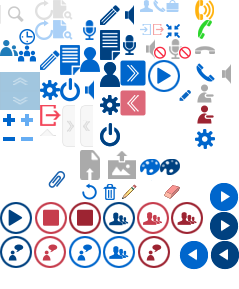
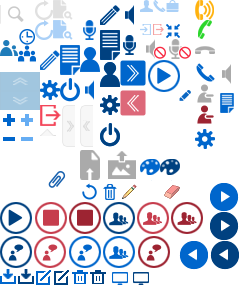
room.html页面加了文档列表

Changed region(s): [[0.0, 0.9343, 0.4393, 0.9965], [0.4686, 0.9343, 0.6444, 0.9965], [0.9079, 0.3114, 0.9958, 0.4048]]

diff --git a/room.html b/room.html
@@ -2,7 +2,7 @@
 <html>
 <head>
     <meta http-equiv="Content-Type" content="text/html; charset=utf-8"/>
-    <title>xxx会议室</title>
+    <title>会议文档</title>
     <link rel="stylesheet" href="css/global.css">
     <link rel="stylesheet" href="css/conference.css">
     <script type="text/javascript" src="js/jquery.js"></script>
@@ -199,108 +199,52 @@
                     <!--左侧的四个悬浮按钮begin-->
                     <div class="BarLeft">
                         <a href=""><i class="Icon Icon-write-m"></i></a>
-                        <a href=""><i class="Icon Icon-doc-m"></i></a>
-                        <a href="" class="current"><i class="Icon Icon-me-m"></i></a>
+                        <a href="" class="current"><i class="Icon Icon-doc-m"></i></a>
+                        <a href=""><i class="Icon Icon-me-m"></i></a>
                         <a href=""><i class="Icon Icon-set-m"></i></a>
                         <a href=""><i class="Icon Icon-broad-m"></i></a>
                     </div>
                     <!--左侧的四个悬浮按钮over-->
                     <div class="RightBarB-in">
                         <a href="javascript:;" class="Icon Icon-off"></a>
-                        <p class="TopTime aligncenter">
-                            <em>会议时长</em><br>
-                            <span class="font30">01:05:34</span>
-                        </p>
+                        <div class="Mtitle font16">
+                            <i class="Icon Icon-doc-m"></i> 会议文档
+                        </div>
                         <div class="mainIn">
-                            <ul class="UserList UserTab mart10 nomarl">
-                                <li class="clearfix">
-                                    <span class="UserImg block floatleft"><img src="images/1.jpg"></span>
-                                    <div class="UserBox">
-                                        <p>
-                                            <span class="UserName"><i class="Icon Icon-man"></i> 习近平</span>
-                                            <span class="Departmen"><i class="Icon Icon-box"></i> 技术支持部</span>
-                                            <span><i class="Icon Icon-phone"></i> 18622595158</span>
-                                        </p>
-                                        <div class="BtnItems">
-                                            <a href="javascript:;" class="marl5 nomarr"><i class="Icon Icon-v"></i> 未静音</a>
-                                            <a href="#" class="marl10 nomarr"><i class="Icon Icon-m"></i> 未静音</a>
-                                        </div>
-                                    </div>
-                                </li>
-                                <li class="clearfix">
-                                    <span class="UserImg block floatleft"><img src="images/1.jpg"></span>
-                                    <div class="UserBox">
-                                        <p>
-                                            <span class="UserName"><i class="Icon Icon-man"></i> 习近平</span>
-                                            <span class="Departmen"><i class="Icon Icon-box"></i> 技术支持部</span>
-                                            <span><i class="Icon Icon-phone"></i> 18622595158</span>
-                                        </p>
-                                        <div class="BtnItems">
-                                            <a href="javascript:;" class="no-Voice marl5 nomarr mart7"><i class="Icon no-voice"></i> 已静音</a>
-                                            <a href="#" class="no-Mic nomarl nomarr mart7"><i class="Icon no-mic"></i> 已静音</a>
-                                        </div>
-                                    </div>
-                                </li>
-                            </ul>
                             <div class="attachment-list">
                                 <div class="md-attachment mart10">
                                 <ul class="all-att clearfix">
                                     <li class="clearfix">
-                                        <span class="docimg floatleft"><img src="images/pdf.png"></span>
-                                        <div class="floatleft">
-                                            <p class="txt_hidden">
-                                                <span>数段名</span>
-                                            </p>
-                                            <p class="p-top10 clearfix">
-                                                <em>(20.5KB)</em>
-                                                <a target="_blank" href="" class="color-black">下载</a>
-                                                <a target="_blank" href="" class="color-black">预览</a>
-                                            </p>
+                                        <span class="docimg floatleft"><img src="images/fu_docx.gif"></span>
+                                        <span class="txt_hidden floatleft">新证据支持月球源于行星撞地球</span>
+                                        <span>
+                                            <em>10.69K</em>
+                                            <em>2014-06-08 17:41:05</em>
+                                        </span>
+                                        <div class="docBtn clearfix  floatright">
+                                            <a href="#" title="下载"><i class="Icon Icon-downl"></i></a>
+                                            <a href="#" title="重命名"><i class="Icon Icon-name"></i></a>
+                                            <a href="#" title="预览"><i class="Icon Icon-see"></i></a>
+                                            <a href="#" title="删除"><i class="Icon Icon-del2"></i></a>
                                         </div>
                                     </li>
                                     <li class="clearfix">
-                                        <span class="docimg floatleft"><img src="images/png.png"></span>
-                                        <div class="floatleft">
-                                            <p class="txt_hidden">
-                                                <span>数段名</span>
-                                            </p>
-                                            <p class="p-top10 clearfix">
-                                                <em>(20.5KB)</em>
-                                                <a target="_blank" href="" class="color-black">下载</a>
-                                                <a target="_blank" href="" class="color-black">预览</a>
-                                            </p>
-                                        </div>
-                                    </li>
-                                    <li class="clearfix">
-                                        <span class="docimg floatleft"><img src="images/txt.png"></span>
-                                        <div class="floatleft">
-                                            <p class="txt_hidden">
-                                                <span>数段名</span>
-                                            </p>
-                                            <p class="p-top10 clearfix">
-                                                <em>(20.5KB)</em>
-                                                <a target="_blank" href="" class="color-black">下载</a>
-                                                <a target="_blank" href="" class="color-black">预览</a>
-                                            </p>
-                                        </div>
-                                    </li>
-                                    <li class="clearfix">
-                                        <span class="docimg floatleft"><img src="images/zip.png"></span>
-                                        <div class="floatleft">
-                                            <p class="txt_hidden">
-                                                <span>数段名</span>
-                                            </p>
-                                            <p class="p-top10 clearfix">
-                                                <em>(20.5KB)</em>
-                                                <a target="_blank" href="" class="color-black">下载</a>
-                                                <a target="_blank" href="" class="color-black">预览</a>
-                                            </p>
+                                        <span class="docimg floatleft"><img src="images/fu_gif.gif"></span>
+                                        <span class="txt_hidden floatleft">新行星撞地球</span>
+                                        <span>
+                                            <em>10.69K</em>
+                                            <em>2014-06-08 17:41:05</em>
+                                        </span>
+                                        <div class="docBtn clearfix  floatright">
+                                            <a href="#" title="下载"><i class="Icon Icon-downl"></i></a>
+                                            <a href="#" title="重命名"><i class="Icon Icon-name"></i></a>
+                                            <a href="#" title="预览"><i class="Icon Icon-see"></i></a>
+                                            <a href="#" title="删除"><i class="Icon Icon-del2"></i></a>
                                         </div>
                                     </li>
                                 </ul>
                             </div>
                             </div>
-                            <p class="aligncenter p-top10"><a href="#"><i class="Icon Icon-play"></i> 开始录音</a></p>
                         </div>
                     </div>
                 </div>

diff --git a/css/conference.css b/css/conference.css
@@ -249,9 +249,10 @@ a.close:hover{text-decoration: none;}
 .mainIn .UserTab li .UserBox .BtnItems a.Kout.red{color:#999;}
 
 .md-attachment{position:relative;z-index: 10;margin:5px 0 0 5px;}
-.all-att{position: absolute;padding:5px;background: #fff;width:225px;z-index: 10;*border:2px solid #ccc;
-    border:1px solid #ccc;box-shadow:0 0 8px #ccc;}
-.all-att li{margin:6px 0;line-height: 20px;}
+.all-att{position: absolute;background: #fff;width:225px;z-index: 10;box-shadow:0 0 8px #ccc;border:1px solid #ccc;}
+.all-att li{padding:5px;line-height: 20px;border-bottom:1px solid #ccc;}
+.all-att li:last-child{border:0;}
+.all-att li:hover{background:#f3f8fe;}
 .all-att li span.txt_hidden{width:150px;display: inline-block;float: left;}
 .all-att li .docimg{display: inline-block; position: relative;top:2px;float: left;}
 .all-att li .docimg img{width:20px;height:20px;vertical-align: middle;margin-right:5px;}
@@ -259,12 +260,17 @@ a.close:hover{text-decoration: none;}
 .md-mi-attachment{display:inline-block;width:16px;height:18px;font-size: 0;line-height: 0;
     background: url("../images/md-p-ico.png");background-position:-1px -181px;vertical-align: middle;top:-2px;left:-4px;position: relative;}
 .attachment-list .all-att{position: relative;display: block;width: auto;box-shadow:none;}
-.attachment-list .all-att li{margin:8px 10px;float: left;width: 220px;}
-.attachment-list .all-att li a{margin:0 10px 0 0;float: left;}
-.attachment-list .all-att li p.txt_hidden{width:160px;float: none;}
+.attachment-list .all-att li{}
+.attachment-list .all-att li a{margin:0 10px 0 0;}
+.attachment-list .all-att li span{height: 32px;line-height: 32px;}
+.attachment-list .all-att li span.txt_hidden{width:260px;}
 .attachment-list .all-att li span.graytext{color: #a0a0a0;}
 .attachment-list .md-attachment{margin:0;}
 .attachment-list .all-att li .docimg img{width: 32px;height:32px;}
+.attachment-list .all-att li .docBtn{height: 32px;line-height: 32px;}
+
+
+
 .Grab{border-bottom:1px solid #e2dede;margin:0 5px;}
 .Grab a{display: inline-block;width:40px;height:20px;line-height: 20px;text-align: center;color:#fff;border-radius:2px;margin:5px 0;}
 .Grab a.GrabBtn{background: #0066cc;}

diff --git a/css/global.css b/css/global.css
@@ -182,6 +182,8 @@ a:hover .Icon-broad{background-position: -160px -153px;}
 .Icon-me-m{background-position: -140px -123px;}
 .Icon-set-m{background-position: -163px -123px;}
 .Mtitle .Icon-set-m{background-position: -195px -129px;}
+.Mtitle .Icon-doc-m{background-position: -220px -93px;}
+
 .Icon-edit{width:12px;height:12px;background-position: -179px -90px;}
 .Icon-broad-m{background-position: -140px -179px;}
 .Icon-rstep,.Icon-clear{width:16px;height:17px;background-position: -81px -185px;top: 3px;}
@@ -217,6 +219,15 @@ a:hover .Icon-closerob{background-position:-138px -236px;}
 .next{background-position: -210px -183px;right:10px;}
 .next:hover{background-position: -210px -212px;}
 .FrameIn:hover .prev,.FrameIn:hover .next{display: block;}
+.Icon-downl,.Icon-name,.Icon-see,.Icon-del2{width:16px;height:15px;background-position: 0 -270px;top:2px;}
+a:hover .Icon-downl{background-position: -18px -270px;}
+.Icon-name{background-position: -36px -270px;}
+a:hover .Icon-name{background-position: -54px -270px;}
+.Icon-see{background-position: -112px -270px;}
+a:hover .Icon-see{background-position: -133px -270px;}
+.Icon-del2{background-position: -72px -270px;top:3px;}
+a:hover .Icon-del2{background-position: -90px -270px;}
+
 /*这里是明道大结构的样式2013-8-7*/
 #Container{width:1000px;margin:0 auto;padding-bottom:50px;background-color:#fff;position:relative;color: #404040;overflow: hidden;padding-top: 25px;}
 
